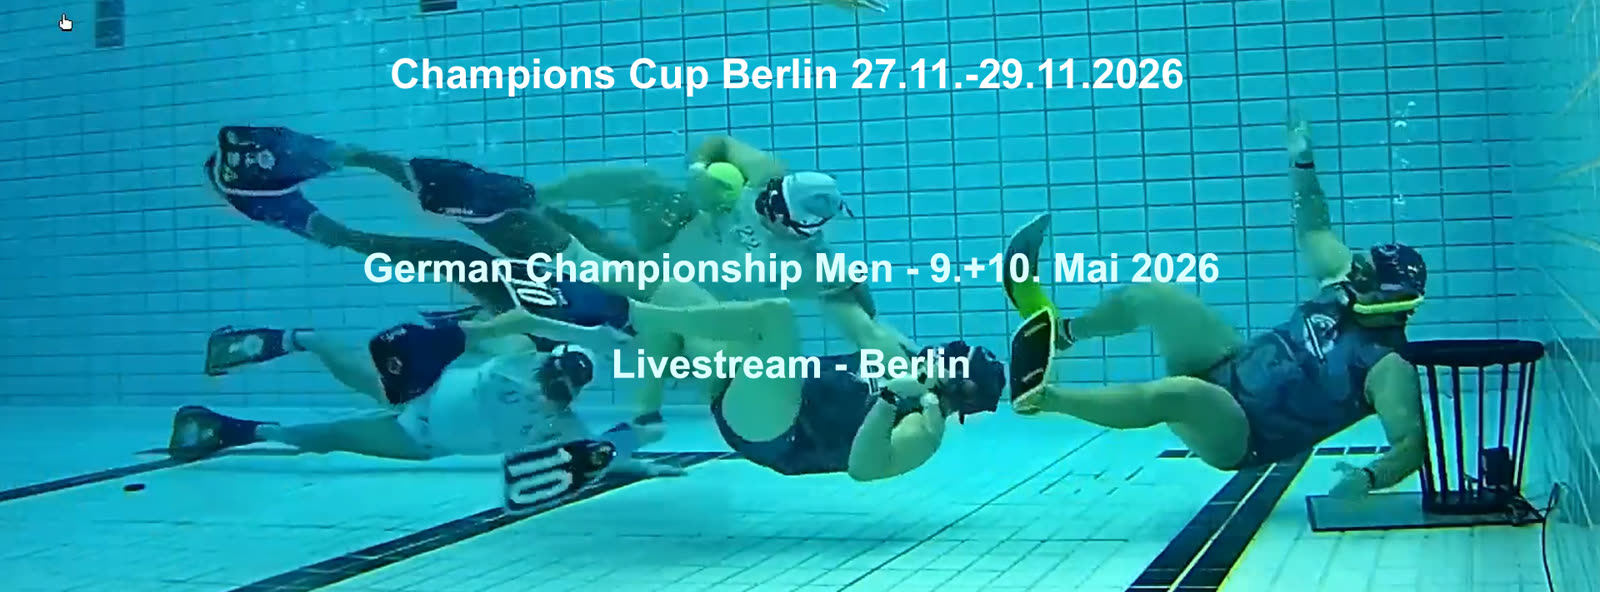
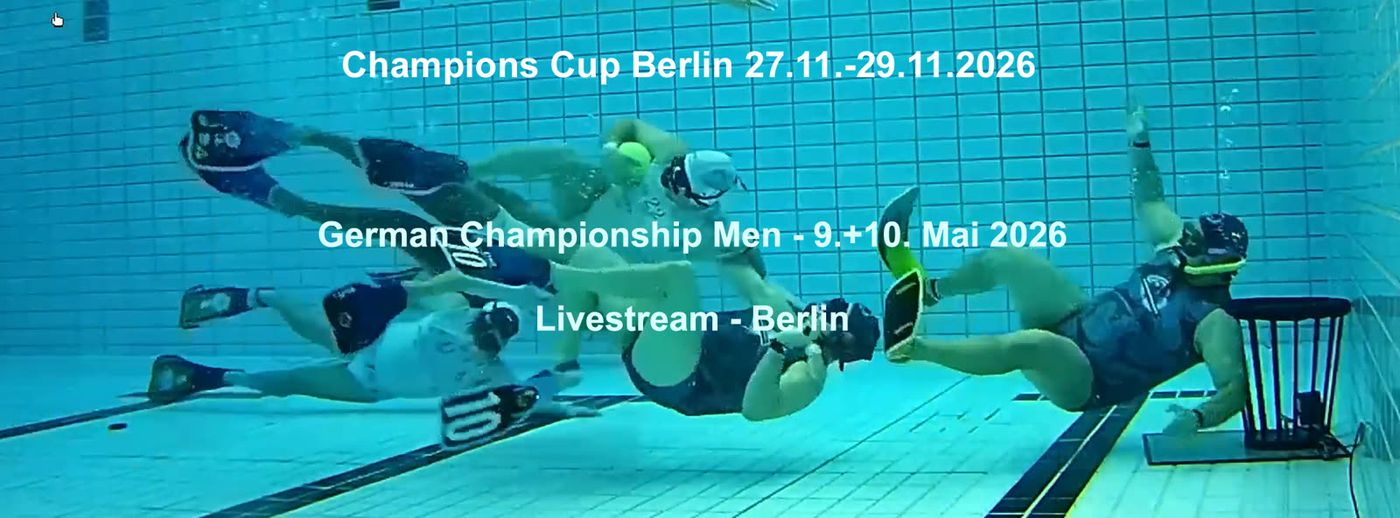
Optimize home page images (26.9 MB -> 7.2 MB)
Home page photos were multi-MB PNGs and oversized JPEGs, which made the
site very slow to load on phones and filtered networks.

- Convert photo PNGs to progressive JPEG (q80); max 1920px for full-screen
  backgrounds, 1400px for cards/gallery, 200px for the member avatars
  (shown at 40px), 256px for the hero logo
- Merge byte-identical duplicates (image-13 -> image-12, image-11 ->
  image-8, FullSizeRender2 -> FullSizeRender--1-)
- Recompress gallery/achievement JPEGs in place

diff --git a/index.html b/index.html
@@ -174,7 +174,7 @@
     #hero-bg {
       position: absolute;
       inset: 0;
-      background-image: url('images/image-3.png');
+      background-image: url('images/image-3.jpg');
       background-size: cover;
       background-position: center;
       transform-origin: center;
@@ -1146,7 +1146,7 @@
       content: '';
       position: absolute;
       inset: 0;
-      background-image: url('images/photos/FullSizeRender2.jpg');
+      background-image: url('images/photos/FullSizeRender--1-.jpg');
       background-size: cover;
       background-position: center 30%;
       filter: brightness(0.1) saturate(0.3);
@@ -1728,7 +1728,7 @@
     .join-bg {
       position: absolute;
       inset: 0;
-      background-image: url('images/image-3.png');
+      background-image: url('images/image-3.jpg');
       background-size: cover;
       background-position: center;
       filter: brightness(0.08) saturate(0.3);
@@ -1933,7 +1933,7 @@
 
 <!-- ─── SPORT INTRO ─── -->
 <section id="sport" class="angled-top">
-  <div class="section-full-bg" style="background-image:url('images/image-19.jpeg')"></div>
+  <div class="section-full-bg" style="background-image:url('images/image-19.jpg')"></div>
   <div class="section-full-bg-overlay" style="background:linear-gradient(to right, rgba(4,8,15,0.3) 0%, transparent 60%, rgba(4,8,15,0.15) 100%)"></div>
   <div class="sport-diag-accent"></div>
   <div class="sport-full-layout">
@@ -1982,7 +1982,7 @@
 
 <!-- ─── TEAM ─── -->
 <section id="team" class="angled-top-r">
-  <div class="section-full-bg" style="background-image:url('images/image-5.png'); background-position:60% center;"></div>
+  <div class="section-full-bg" style="background-image:url('images/image-5.jpg'); background-position:60% center;"></div>
   <div class="section-full-bg-overlay" style="background:linear-gradient(to left, rgba(4,8,15,0.25) 0%, transparent 40%, rgba(4,8,15,0.2) 100%)"></div>
   <div class="fullscreen-layout align-right">
     <div class="fullscreen-panel right reveal-right">
@@ -2007,7 +2007,7 @@
 
 <!-- ─── WOMEN'S TEAM ─── -->
 <section id="women" class="angled-top">
-  <div class="section-full-bg" style="background-image:url('images/image-15.png'); background-position:40% center;"></div>
+  <div class="section-full-bg" style="background-image:url('images/image-15.jpg'); background-position:40% center;"></div>
   <div class="section-full-bg-overlay" style="background:linear-gradient(to right, rgba(4,8,15,0.25) 0%, transparent 40%, rgba(4,8,15,0.2) 100%)"></div>
   <div class="fullscreen-layout">
     <div class="fullscreen-panel left reveal-left">
@@ -2072,7 +2072,7 @@
     </div>
 
     <div class="ac-shard">
-      <div class="ac-shard-bg" style="background-image:url('images/image-18.jpeg')"></div>
+      <div class="ac-shard-bg" style="background-image:url('images/image-18.jpg')"></div>
       <div class="ac-shard-accent"></div>
       <div class="ac-shard-num">04</div>
       <span class="ac-shard-badge gold">🥇 1st Place</span>
@@ -2084,7 +2084,7 @@
     </div>
 
     <div class="ac-shard">
-      <div class="ac-shard-bg" style="background-image:url('images/image-16.png')"></div>
+      <div class="ac-shard-bg" style="background-image:url('images/image-16.jpg')"></div>
       <div class="ac-shard-accent"></div>
       <div class="ac-shard-num">05</div>
       <span class="ac-shard-badge blue">Female Team</span>
@@ -2096,7 +2096,7 @@
     </div>
 
     <div class="ac-shard">
-      <div class="ac-shard-bg" style="background-image:url('images/image-12.png')"></div>
+      <div class="ac-shard-bg" style="background-image:url('images/image-12.jpg')"></div>
       <div class="ac-shard-accent"></div>
       <div class="ac-shard-num">06</div>
       <span class="ac-shard-badge blue">5th Place</span>
@@ -2108,7 +2108,7 @@
     </div>
 
     <div class="ac-shard">
-      <div class="ac-shard-bg" style="background-image:url('images/image-6.png')"></div>
+      <div class="ac-shard-bg" style="background-image:url('images/image-6.jpg')"></div>
       <div class="ac-shard-accent"></div>
       <div class="ac-shard-num">07</div>
       <span class="ac-shard-badge bronze">🥉 3rd Place</span>
@@ -2120,7 +2120,7 @@
     </div>
 
     <div class="ac-shard">
-      <div class="ac-shard-bg" style="background-image:url('images/image-7.png')"></div>
+      <div class="ac-shard-bg" style="background-image:url('images/image-7.jpg')"></div>
       <div class="ac-shard-accent"></div>
       <div class="ac-shard-num">08</div>
       <span class="ac-shard-badge blue">Training Camp</span>
@@ -2165,7 +2165,7 @@
   <div class="shards-container">
 
     <div class="shard" id="shard-0">
-      <div class="shard-bg" style="background-image:url('images/image-4.png')"></div>
+      <div class="shard-bg" style="background-image:url('images/image-4.jpg')"></div>
       <div class="shard-accent"></div>
       <div class="shard-num">01</div>
       <div class="shard-content">
@@ -2180,7 +2180,7 @@
     </div>
 
     <div class="shard" id="shard-1">
-      <div class="shard-bg" style="background-image:url('images/image-10.png')"></div>
+      <div class="shard-bg" style="background-image:url('images/image-10.jpg')"></div>
       <div class="shard-accent"></div>
       <div class="shard-num">02</div>
       <div class="shard-content">
@@ -2195,7 +2195,7 @@
     </div>
 
     <div class="shard" id="shard-2">
-      <div class="shard-bg" style="background-image:url('images/image-8.png')"></div>
+      <div class="shard-bg" style="background-image:url('images/image-8.jpg')"></div>
       <div class="shard-accent"></div>
       <div class="shard-num">03</div>
       <div class="shard-content">
@@ -2210,7 +2210,7 @@
     </div>
 
     <div class="shard" id="shard-3">
-      <div class="shard-bg" style="background-image:url('images/image-12.png')"></div>
+      <div class="shard-bg" style="background-image:url('images/image-12.jpg')"></div>
       <div class="shard-accent"></div>
       <div class="shard-num">04</div>
       <div class="shard-content">
@@ -2259,11 +2259,11 @@
       <p class="app-desc">A custom-built app for the AUWR community — training, tournaments, photos, and team announcements. Made by players, for players.</p>
       <div class="app-members">
         <div class="app-photos">
-          <img src="images/image-0.png" alt="Member">
-          <img src="img/img6.png" alt="Member">
-          <img src="images/image-1.png" alt="Member">
-          <img src="img/img5.png" alt="Member">
-          <img src="img/img4.png" alt="Member">
+          <img src="images/image-0.jpg" alt="Member">
+          <img src="img/img6.jpg" alt="Member">
+          <img src="images/image-1.jpg" alt="Member">
+          <img src="img/img5.jpg" alt="Member">
+          <img src="img/img4.jpg" alt="Member">
         </div>
         <div class="app-member-label">
           <strong>20+ members</strong>
@@ -2534,27 +2534,27 @@
   // ─── LIGHTBOX ───
   const galleryImages = [
     { src: 'images/photos/20260517_131602.jpg',                          label: 'Training 2026' },
-    { src: 'images/image-8.png',                                         label: 'AUWR Spirit' },
+    { src: 'images/image-8.jpg',                                         label: 'AUWR Spirit' },
     { src: 'images/photos/FullSizeRender.jpg',                           label: 'Team' },
     { src: 'images/photos/IMG_5513.jpg',                                 label: 'Action' },
-    { src: 'images/image-10.png',                                        label: 'Training' },
+    { src: 'images/image-10.jpg',                                        label: 'Training' },
     { src: 'images/photos/20260517_130509.jpg',                          label: 'Session 2026' },
-    { src: 'images/image-13.png',                                        label: 'Competition' },
+    { src: 'images/image-12.jpg',                                        label: 'Competition' },
     { src: 'images/photos/IMG_1879.jpg',                                 label: 'Team' },
     { src: 'images/photos/FullSizeRender--1-.jpg',                       label: 'Training' },
-    { src: 'images/image-19.jpeg',                                       label: 'Match' },
+    { src: 'images/image-19.jpg',                                       label: 'Match' },
     { src: 'images/photos/20260517_130850-1-.jpg',                       label: 'Session 2026' },
-    { src: 'images/image-15.png',                                        label: "Women's Team" },
+    { src: 'images/image-15.jpg',                                        label: "Women's Team" },
     { src: 'images/photos/974e1d53-289a-4052-82b0-0628d506c396.jpg',     label: 'Team' },
-    { src: 'images/image-11.png',                                        label: 'Team' },
+    { src: 'images/image-8.jpg',                                        label: 'Team' },
     { src: 'images/photos/e7e0e2b4-5801-4f35-a2b2-6de2b4b10724.jpg',    label: 'Team' },
-    { src: 'images/image-18.jpeg',                                       label: 'Singapore 2025' },
+    { src: 'images/image-18.jpg',                                       label: 'Singapore 2025' },
     { src: 'images/photos/IMG_5504.jpg',                                 label: 'Training' },
-    { src: 'images/photos/FullSizeRender2.jpg',                          label: 'Team' },
+    { src: 'images/photos/FullSizeRender--1-.jpg',                          label: 'Team' },
     { src: 'images/photos/20260517_125841.jpg',                          label: 'Session 2026' },
-    { src: 'img/img3.png',                                               label: 'Off the Water' },
+    { src: 'img/img3.jpg',                                               label: 'Off the Water' },
     { src: 'images/photos/NATIONALS.jpg',                                label: 'Nationals 2026' },
-    { src: 'images/image-5.png',                                         label: 'Team' },
+    { src: 'images/image-5.jpg',                                         label: 'Team' },
   ];
   let lightboxIndex = 0;
   const lb = document.getElementById('lightbox');
